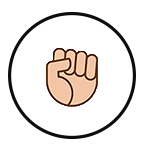
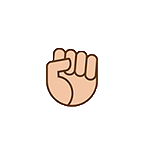
scripts

Changed region(s): [[0.0556, 0.0795, 0.9444, 0.9272]]

diff --git a/style.css b/style.css
@@ -72,8 +72,8 @@ text-align: center;
 
 .choice {
     display: inline-block;
-    /* border: 4px solid white;
-    border-radius: 50%; */
+    border: 4px solid white;
+    border-radius: 50%;
     margin: 0 15px;
     padding: 15px;
     transition: all 0.3s ease;

diff --git a/index.html b/index.html
@@ -33,5 +33,7 @@
         </div>
     </div>
     <p id="action">Make Your Move!</p>
+
+    <script src="app.js" charset="utf-8"></script>
 </body>
 </html>
